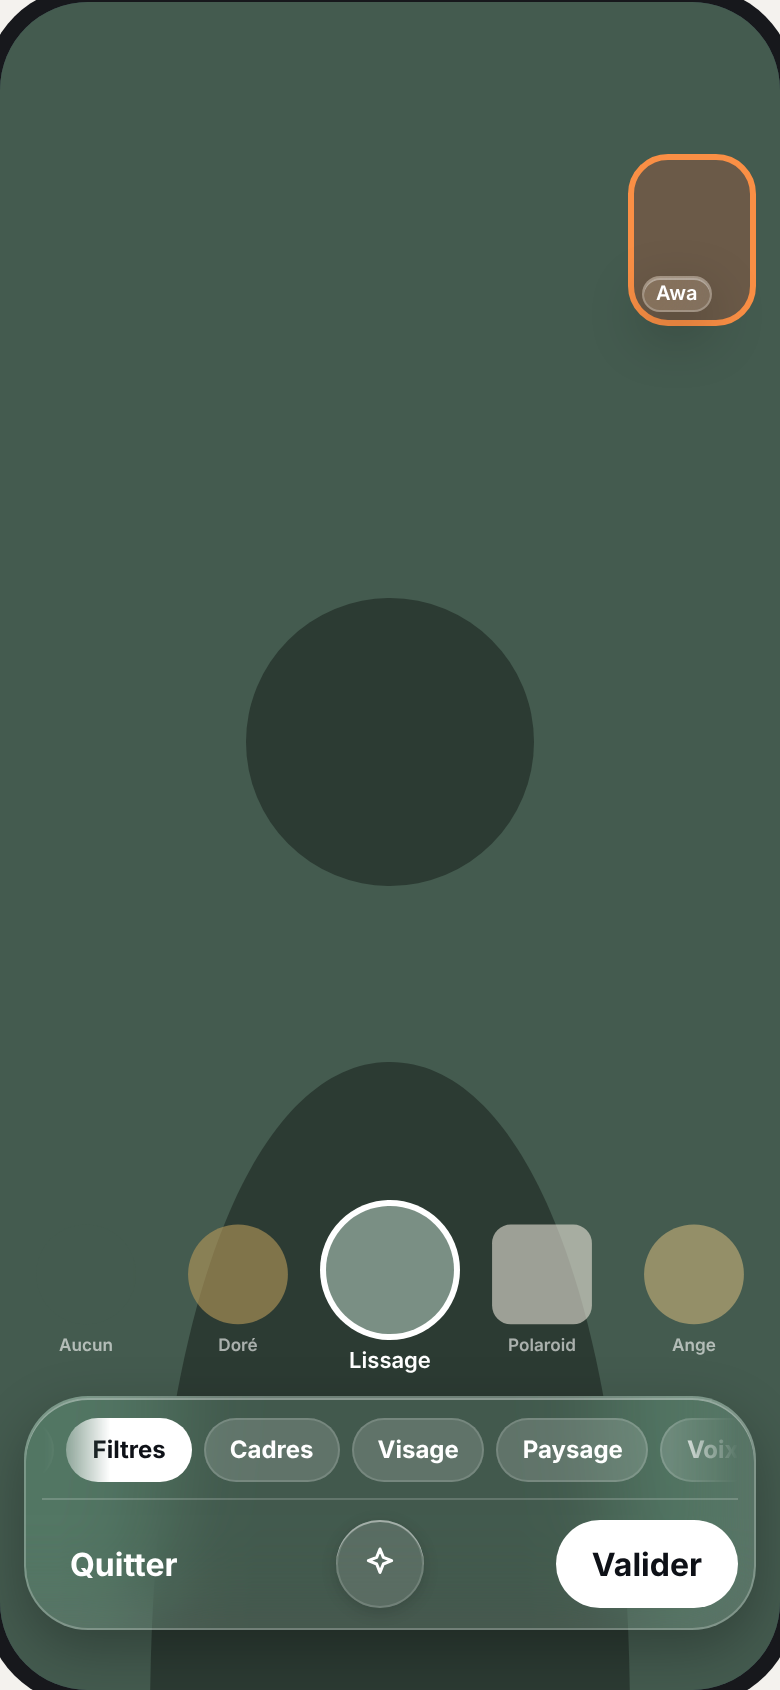
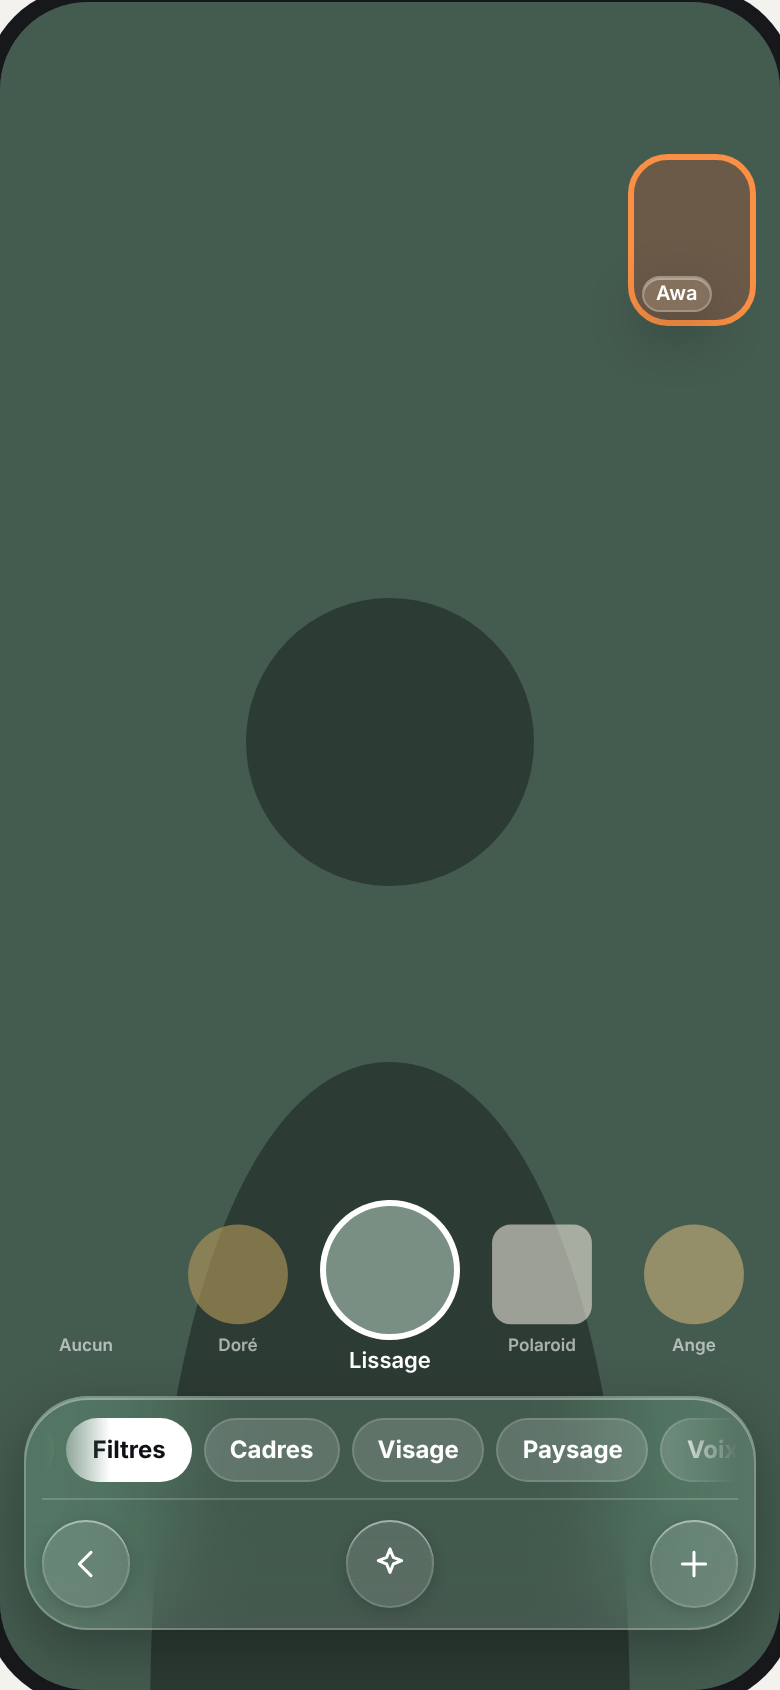
docs(appels): Effets parle la langue du composer — ‹ pour revenir, (+) pour cumuler les looks, plus de « Valider »
Le look touché s'applique tout de suite (directive porteur du 2026-11-10). Vues P8 et P8b, loi 14.

Refs #17409

Claude-Session: https://claude.ai/code/session_017ZypwtA3FFaNcUq8pdER8u

Changed region(s): [[0.7077, 0.8923, 0.9538, 0.9538], [0.4308, 0.8923, 0.5538, 0.9538], [0.0923, 0.8923, 0.2154, 0.9538]]

diff --git a/docs/product/appels-vue-finale/planche.html b/docs/product/appels-vue-finale/planche.html
@@ -138,8 +138,8 @@ const S=[
 {id:'P5',t:'Toucher une phrase : l’original',d:'La phrase touchée déplie son original dessous, en encre secondaire. Retoucher le replie.',html:phone(scene()+head('Awa · 04:12')+self()+caps([T('awa','Tu m’entends bien ? Le son coupait tout à l’heure.',{tag:'EN → FR',orig:'Can you hear me? The sound kept cutting out earlier.'}),T('moi','Oui, c’est net maintenant.')]))},
 {id:'P6',t:'Journal pendant l’appel',d:'« Journal » ouvre TOUT l’appel, rien de tronqué : qui (sa couleur), quand, la phrase servie, l’original sous la phrase qu’on touche. Il s’ouvre DANS la pilule, à la place des sous-titres, et défile librement ; « Revenir au direct » quand on a remonté.',html:phone(scene()+head('Awa · 04:12')+self()+journalPill(J,{live:true}))},
 {id:'P7',t:'Micro coupé',d:'Le micro barré passe en disque blanc. Micro coupé = ma parole n’est plus transcrite (#8475).',html:phone(scene()+head('Awa · 04:12')+self()+pill({micOff:true}))},
-{id:'P8',t:'Effets de ma caméra',d:'« Effets » emprunte au composer (#17406). MA caméra passe en plein écran, les autres en bandeau, les sous-titres restent. Les looks (filtres, cadres, effets) se choisissent en surimpression sur l’image : la case au centre est choisie, à pleine taille, les voisines plus petites. La barre du bas grandit par morphisme et porte les puces qui trient les looks (Tout · Filtres · Cadres · Visage · Paysage · Voix…) : elles défilent à l’horizontale sans coupure, en s’effaçant toujours en fondu à gauche comme à droite (#17409). Puis Quitter (rend mon image d’avant) · Réglages · Valider. Un mode libère l’écran : l’en-tête se masque (#8578).',html:phone(`<div style="position:absolute;inset:0;background:#445B4F"></div><svg style="position:absolute;left:75px;top:260px" width="240" height="600" viewBox="0 0 240 600" aria-hidden="true"><circle cx="120" cy="110" r="72" fill="#2c3b33"/><path d="M0 600c0-200 50-330 120-330s120 130 120 330z" fill="#2c3b33"/></svg>`+`<div style="position:absolute;right:12px;top:76px;display:flex;flex-direction:column;gap:6px"><div class="tile" style="width:64px;height:86px;padding:4px;background:#6B5A48;border-color:var(--awa)"><span class="name glass" style="font-size:10px;padding:2px 6px">Awa</span></div></div><div style="position:absolute;left:0;right:0;bottom:158px;display:flex;justify-content:center;align-items:center;gap:12px">${['Aucun','Doré','Lissage','Polaroid','Ange'].map((n,i)=>`<div style="display:flex;flex-direction:column;align-items:center;gap:6px;transform:scale(${i===2?1:.78});opacity:${i===2?1:.6}"><span style="width:64px;height:64px;border-radius:${i===3?'12px':'50%'};background:${['#445B4F','#b89a5a','#7a8f84','#e9e4d8','#c9b37a'][i]};${i===2?'box-shadow:0 0 0 3px #fff;':''}"></span><span style="font-size:11px;font-weight:600">${n}</span></div>`).join('')}</div><div class="glass" style="position:absolute;left:12px;right:12px;bottom:30px;border-radius:32px;padding:10px 8px 8px;display:flex;flex-direction:column;gap:8px"><div role="group" aria-label="Trier les looks" style="overflow:hidden;-webkit-mask-image:linear-gradient(90deg,transparent 0,#000 34px,#000 calc(100% - 34px),transparent 100%);mask-image:linear-gradient(90deg,transparent 0,#000 34px,#000 calc(100% - 34px),transparent 100%)"><div style="display:flex;gap:6px;width:max-content;transform:translateX(-46px)">${['Tout','Filtres','Cadres','Visage','Paysage','Voix','Ambiances'].map((n,i)=>`<span style="height:32px;padding:0 13px;border-radius:16px;font-size:12px;font-weight:700;display:flex;align-items:center;flex-shrink:0;${i===1?'background:#fff;color:#0E1117':'background:rgba(255,255,255,.16);box-shadow:inset 0 0 0 1px rgba(255,255,255,.14)'}">${n}</span>`).join('')}</div></div><div style="height:1px;background:rgba(255,255,255,.18)"></div><div style="display:flex;justify-content:space-between;align-items:center;height:48px"><span style="padding:0 14px;font-weight:700">Quitter</span>${B('effects','Réglages','soft')}<span style="height:44px;padding:0 18px;border-radius:22px;background:#fff;color:#0E1117;font-weight:700;display:flex;align-items:center">Valider</span></div></div>`)},
-{id:'P8b',t:'Effets : réglages',d:'« Réglages » remplace le carrousel par Luminosité et Flou du fond.',html:phone(`<div style="position:absolute;inset:0;background:#445B4F"></div><svg style="position:absolute;left:75px;top:260px" width="240" height="600" viewBox="0 0 240 600" aria-hidden="true"><circle cx="120" cy="110" r="72" fill="#2c3b33"/><path d="M0 600c0-200 50-330 120-330s120 130 120 330z" fill="#2c3b33"/></svg>`+`<div class="glass deep" style="position:absolute;left:16px;right:16px;bottom:104px;border-radius:24px;padding:14px 16px;display:flex;flex-direction:column;gap:14px"><label style="display:flex;flex-direction:column;gap:8px;font-size:13px;font-weight:600">Luminosité<span style="height:6px;border-radius:3px;background:linear-gradient(90deg,#fff 62%,rgba(255,255,255,.25) 62%)"></span></label><label style="display:flex;justify-content:space-between;align-items:center;font-size:13px;font-weight:600">Flou du fond<span style="width:50px;height:30px;border-radius:15px;background:#34C759;position:relative"><i style="position:absolute;right:3px;top:3px;width:24px;height:24px;border-radius:50%;background:#fff"></i></span></label></div><div class="glass" style="position:absolute;left:16px;right:16px;bottom:30px;height:60px;border-radius:30px;display:flex;justify-content:space-between;align-items:center;padding:0 8px"><span style="padding:0 14px;font-weight:700">Quitter</span>${B('effects','Réglages','on')}<span style="height:44px;padding:0 18px;border-radius:22px;background:#fff;color:#0E1117;font-weight:700;display:flex;align-items:center">Valider</span></div>`)},
+{id:'P8',t:'Effets de ma caméra',d:'« Effets » emprunte au composer (#17406). MA caméra passe en plein écran, les autres en bandeau, les sous-titres restent. Les looks (filtres, cadres, effets) se choisissent en surimpression sur l’image : la case au centre est choisie, à pleine taille, les voisines plus petites. La barre du bas grandit par morphisme et porte les puces qui trient les looks (Tout · Filtres · Cadres · Visage · Paysage · Voix…) : elles défilent à l’horizontale sans coupure, en s’effaçant toujours en fondu à gauche comme à droite (#17409). Le look choisi s’applique tout de suite : il n’y a pas de « Valider ». La rangée de base parle la langue du composer : ‹ revient à l’appel, Réglages, et (+) ajoute un look par-dessus le précédent pour les cumuler. Un mode libère l’écran : l’en-tête se masque (#8578).',html:phone(`<div style="position:absolute;inset:0;background:#445B4F"></div><svg style="position:absolute;left:75px;top:260px" width="240" height="600" viewBox="0 0 240 600" aria-hidden="true"><circle cx="120" cy="110" r="72" fill="#2c3b33"/><path d="M0 600c0-200 50-330 120-330s120 130 120 330z" fill="#2c3b33"/></svg>`+`<div style="position:absolute;right:12px;top:76px;display:flex;flex-direction:column;gap:6px"><div class="tile" style="width:64px;height:86px;padding:4px;background:#6B5A48;border-color:var(--awa)"><span class="name glass" style="font-size:10px;padding:2px 6px">Awa</span></div></div><div style="position:absolute;left:0;right:0;bottom:158px;display:flex;justify-content:center;align-items:center;gap:12px">${['Aucun','Doré','Lissage','Polaroid','Ange'].map((n,i)=>`<div style="display:flex;flex-direction:column;align-items:center;gap:6px;transform:scale(${i===2?1:.78});opacity:${i===2?1:.6}"><span style="width:64px;height:64px;border-radius:${i===3?'12px':'50%'};background:${['#445B4F','#b89a5a','#7a8f84','#e9e4d8','#c9b37a'][i]};${i===2?'box-shadow:0 0 0 3px #fff;':''}"></span><span style="font-size:11px;font-weight:600">${n}</span></div>`).join('')}</div><div class="glass" style="position:absolute;left:12px;right:12px;bottom:30px;border-radius:32px;padding:10px 8px 8px;display:flex;flex-direction:column;gap:8px"><div role="group" aria-label="Trier les looks" style="overflow:hidden;-webkit-mask-image:linear-gradient(90deg,transparent 0,#000 34px,#000 calc(100% - 34px),transparent 100%);mask-image:linear-gradient(90deg,transparent 0,#000 34px,#000 calc(100% - 34px),transparent 100%)"><div style="display:flex;gap:6px;width:max-content;transform:translateX(-46px)">${['Tout','Filtres','Cadres','Visage','Paysage','Voix','Ambiances'].map((n,i)=>`<span style="height:32px;padding:0 13px;border-radius:16px;font-size:12px;font-weight:700;display:flex;align-items:center;flex-shrink:0;${i===1?'background:#fff;color:#0E1117':'background:rgba(255,255,255,.16);box-shadow:inset 0 0 0 1px rgba(255,255,255,.14)'}">${n}</span>`).join('')}</div></div><div style="height:1px;background:rgba(255,255,255,.18)"></div><div style="display:flex;justify-content:space-between;align-items:center;height:48px">${B('down','Retour à l’appel','soft').replace(P.down,'M15 5l-7 7 7 7')}${B('effects','Réglages','soft')}${B('add','Ajouter un autre look','soft').replace(P.add,'M12 5v14M5 12h14')}</div></div>`)},
+{id:'P8b',t:'Effets : réglages',d:'« Réglages » remplace la bande de looks par Luminosité et Flou du fond ; ‹ et (+) restent.',html:phone(`<div style="position:absolute;inset:0;background:#445B4F"></div><svg style="position:absolute;left:75px;top:260px" width="240" height="600" viewBox="0 0 240 600" aria-hidden="true"><circle cx="120" cy="110" r="72" fill="#2c3b33"/><path d="M0 600c0-200 50-330 120-330s120 130 120 330z" fill="#2c3b33"/></svg>`+`<div class="glass deep" style="position:absolute;left:16px;right:16px;bottom:104px;border-radius:24px;padding:14px 16px;display:flex;flex-direction:column;gap:14px"><label style="display:flex;flex-direction:column;gap:8px;font-size:13px;font-weight:600">Luminosité<span style="height:6px;border-radius:3px;background:linear-gradient(90deg,#fff 62%,rgba(255,255,255,.25) 62%)"></span></label><label style="display:flex;justify-content:space-between;align-items:center;font-size:13px;font-weight:600">Flou du fond<span style="width:50px;height:30px;border-radius:15px;background:#34C759;position:relative"><i style="position:absolute;right:3px;top:3px;width:24px;height:24px;border-radius:50%;background:#fff"></i></span></label></div><div class="glass" style="position:absolute;left:16px;right:16px;bottom:30px;height:60px;border-radius:30px;display:flex;justify-content:space-between;align-items:center;padding:0 8px">${B('down','Retour à l’appel','soft').replace(P.down,'M15 5l-7 7 7 7')}${B('effects','Réglages','on')}${B('add','Ajouter un autre look','soft').replace(P.add,'M12 5v14M5 12h14')}</div>`)},
 ]},
 {h:'Duo audio, portrait',lead:'Sans vidéo, la personne au centre ; mêmes rails, même pilule. « Caméra » dans le rail gauche bascule l’appel en vidéo.',b:[
 {id:'P9',t:'Audio, repos',d:'Avatar, nom, durée au centre ; l’en-tête ne porte à droite que l’indicateur réseau, et seulement s’il se dégrade. L’anneau de l’avatar prend la couleur de la personne quand elle parle.',html:phone(head('')+`<div class="person" style="left:0;right:0;top:220px"><span class="av" style="width:132px;height:132px;background:#B45309;font-size:40px;box-shadow:0 0 0 4px var(--awa),0 0 30px var(--awa)">AD</span><b style="font-size:22px">Awa Diallo</b><span style="color:rgba(255,255,255,.75)">En train de parler</span></div>`+pill(),'#1B2130')},

diff --git a/docs/product/appels-vue-finale.md b/docs/product/appels-vue-finale.md
@@ -76,7 +76,8 @@
 14. **Options en surimpression.**
     - Une option à réglages (Enregistrer, Réagir) s'ouvre DANS la pilule, par morphisme : la même barre s'allonge et grandit pour la contenir, avec ‹ Retour et Fermer, puis reprend sa forme (loi 17). C'est la même barre agrandie qui porte les sous-titres et le journal.
     - « Participants » s'ouvre en feuille ; « Journal » s'ouvre dans la pilule (loi 7).
-    - Effets et Montage sont des modes plein écran avec Quitter · Réglages · Valider, et leur choix se fait dans les looks du composer (loi 9) ; « Quitter » rend mon image d'avant. Un mode libère l'écran : l'en-tête se masque (#8578, confirmé par le porteur le 2026-11-09, #17344).
+    - Effets est un mode plein écran qui parle la langue du composer (directive porteur du 2026-11-10, #17409) : ‹ · Réglages · (+). Le look touché s'applique tout de suite, sans « Valider » ; ‹ revient à l'appel ; (+) ajoute un look par-dessus le précédent, pour les cumuler ; « Aucun » rend mon image d'origine. Le choix se fait dans les looks du composer (loi 9).
+    - Montage garde Quitter · Réglages · Valider tant que le porteur ne l'a pas aligné ; « Quitter » rend mon image d'avant. Un mode libère l'écran : l'en-tête se masque (#8578, confirmé par le porteur le 2026-11-09, #17344).
 15. **À la une.**
     - Toucher une vignette la met à la une, choix local jamais imposé. Si les contrôles sont cachés, le toucher les rend d'abord.
     - La vignette à la une n'a pas de badge : une capsule en haut à droite offre « Revenir à la grille » et « Plein écran ».
